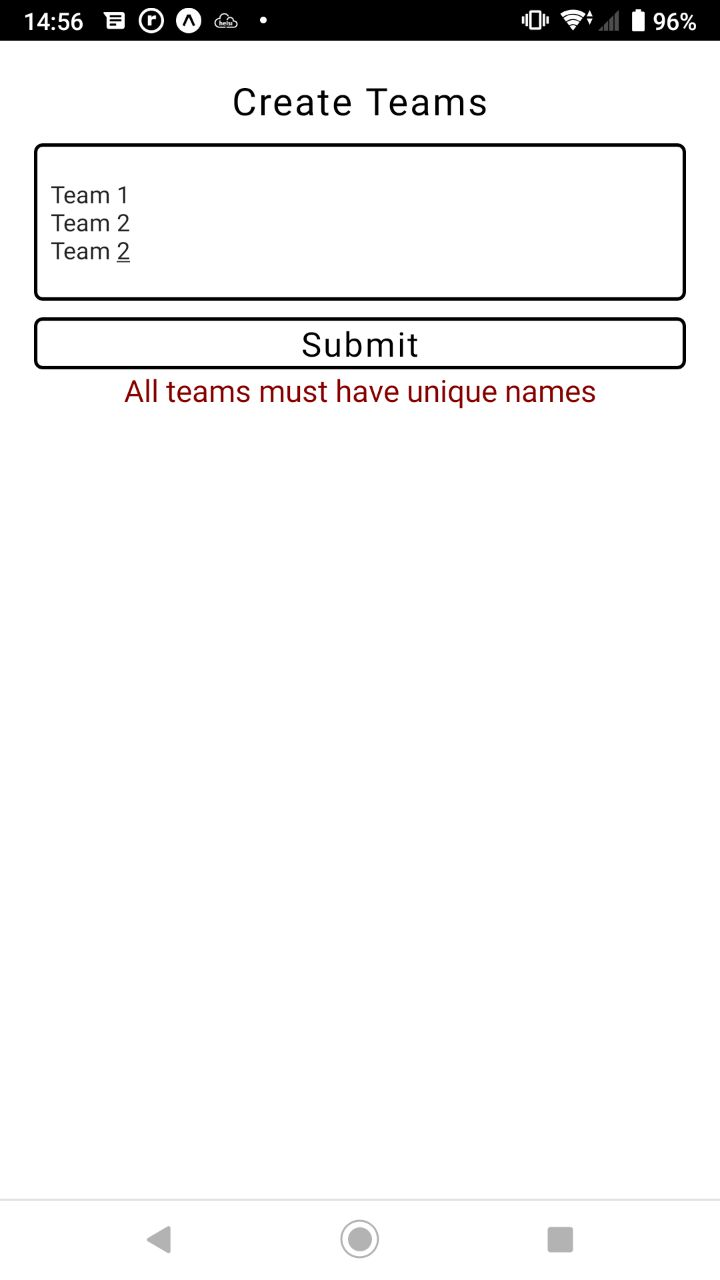
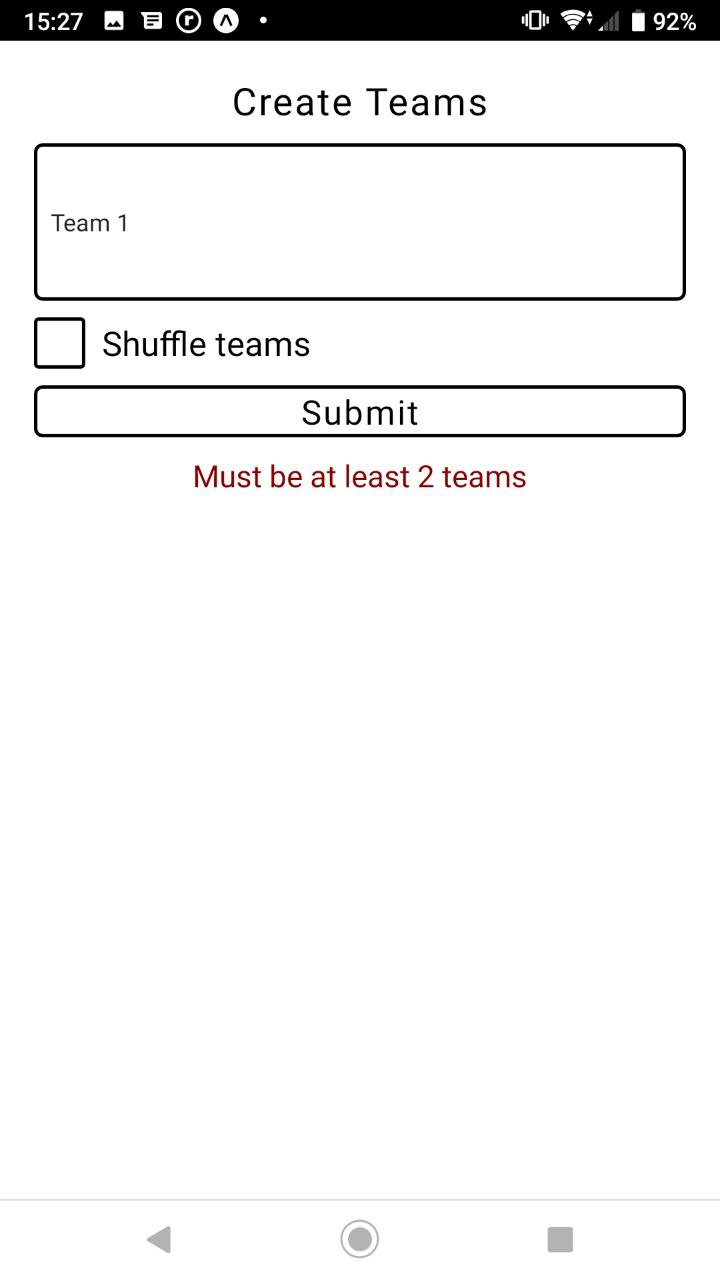
shuffle

diff --git a/screens/CreateTeams.js b/screens/CreateTeams.js
@@ -8,6 +8,7 @@ import {
   StyleSheet,
   ScrollView,
 } from 'react-native'
+import { FontAwesome5 } from '@expo/vector-icons'
 
 const BigTextInput = (props) => {
   return (
@@ -29,6 +30,7 @@ export default function CreateTeams(props) {
   const [teams, setTeams] = useState(props.teams)
   const [checked, setChecked] = useState(false)
   const [error, setError] = useState('')
+  const [shuffle, setShuffle] = useState(props.shuffle)
 
   function CheckUnic() {
     if (input.toString().split('\n').length < 2) {
@@ -63,7 +65,7 @@ export default function CreateTeams(props) {
       <View style={styles.container}>
         <StatusBar />
         <Text style={styles.title}>Create Teams</Text>
-        {/* <View > */}
+
         <BigTextInput
           multiline
           numberOfLines={4}
@@ -75,9 +77,26 @@ export default function CreateTeams(props) {
           value={input}
           style={styles.input}
         />
-        {/* </View> */}
+
         <TouchableOpacity
-          onPress={() => (checked ? props.onStartGame(teams) : CheckUnic())}
+          activeOpacity={0.8}
+          onPress={() => setShuffle(!shuffle)}
+          style={styles.suffleView}
+        >
+          <View style={styles.iconBlock}>
+            <FontAwesome5
+              name="check"
+              size={20}
+              color={shuffle ? '#000' : '#fff'}
+            />
+          </View>
+          <Text style={styles.shuffleText}>Shuffle teams</Text>
+        </TouchableOpacity>
+
+        <TouchableOpacity
+          onPress={() =>
+            checked ? props.onStartGame(teams, shuffle) : CheckUnic()
+          }
           style={[
             styles.button,
             { backgroundColor: checked ? '#000' : '#fff' },
@@ -115,12 +134,31 @@ const styles = StyleSheet.create({
     padding: 10,
     marginVertical: 10,
   },
+  suffleView: {
+    width: '100%',
+    flexDirection: 'row',
+    alignItems: 'center',
+    justifyContent: 'flex-start',
+  },
+  iconBlock: {
+    height: 30,
+    width: 30,
+    borderWidth: 2,
+    borderRadius: 3,
+    alignItems: 'center',
+    justifyContent: 'center',
+    marginRight: 10,
+  },
+  shuffleText: {
+    fontSize: 20,
+  },
   button: {
     width: '100%',
     alignItems: 'center',
     justifyContent: 'center',
     borderRadius: 5,
     borderWidth: 2,
+    marginVertical: 10,
   },
   buttonText: {
     letterSpacing: 1,

diff --git a/screens/Game.js b/screens/Game.js
@@ -11,9 +11,12 @@ import {
 } from 'react-native'
 
 export default function Game(props) {
-  const [teams, setTeams] = useState(props.teams)
+  // const [teams, setTeams] = useState(props.teams)
+  const teams = props.teams
+
   const [listTeams, setListTeams] = useState([])
   const [winner, setwinner] = useState('')
+  const [shuffle, setShuffle] = useState(props.shuffle)
 
   function MakeCouples(length) {
     let list = []
@@ -153,10 +156,12 @@ export default function Game(props) {
   }
 
   function SetFirstCol(t, index) {
+    let teamsShuffle = shuffle ? t.sort((a, b) => 0.5 - Math.random()) : t
+    ////////////////////
     let list = listTeams
     for (let i = 0; i < listTeams[index].length; i++) {
-      list[index][i][0][0] = t[i * 2]
-      list[index][i][1][0] = t[i * 2 + 1]
+      list[index][i][0][0] = teamsShuffle[i * 2]
+      list[index][i][1][0] = teamsShuffle[i * 2 + 1]
     }
   }
 
@@ -185,7 +190,7 @@ export default function Game(props) {
       </View>
       <TouchableOpacity
         style={styles.button}
-        onPress={() => props.onExit(teams)}
+        onPress={() => props.onExit(teams, shuffle)}
       >
         <Text style={styles.buttonText}>Exit</Text>
       </TouchableOpacity>

diff --git a/App.js b/App.js
@@ -7,11 +7,14 @@ import CreateTeams from './screens/CreateTeams'
 export default function App() {
   const [isGame, setIsGame] = useState(false)
   const [teams, setTeams] = useState([])
+  const [shuffle, setShuffle] = useState(false)
 
   return isGame ? (
     <Game
       teams={teams}
-      onExit={(teams) => {
+      shuffle={shuffle}
+      onExit={(teams, shuffle) => {
+        setShuffle(shuffle)
         setIsGame(false)
         setTeams(teams)
       }}
@@ -19,8 +22,10 @@ export default function App() {
   ) : (
     <CreateTeams
       teams={teams}
-      onStartGame={(teams) => {
+      shuffle={shuffle}
+      onStartGame={(teams, shuffle) => {
         setIsGame(true)
+        setShuffle(shuffle)
         setTeams(teams)
       }}
     />

diff --git a/README.md b/README.md
@@ -1,8 +1,10 @@
 # Tournament Grid Generator
 
-![unic names error](./img/1.jpg)
+![only one team error](./img/1.jpg)
 ![amount of teams error](./img/2.jpg)
-![ready to play](./img/3.jpg)
-![grid](./img/4.jpg)
+![unic names error](./img/3.jpg)
+![ready to play](./img/4.jpg)
+![grid](./img/8.jpg)
+![grid](./img/9.jpg)
 ![big amount of teams](./img/5.jpg)
 ![big amount of teams](./img/6.jpg)
